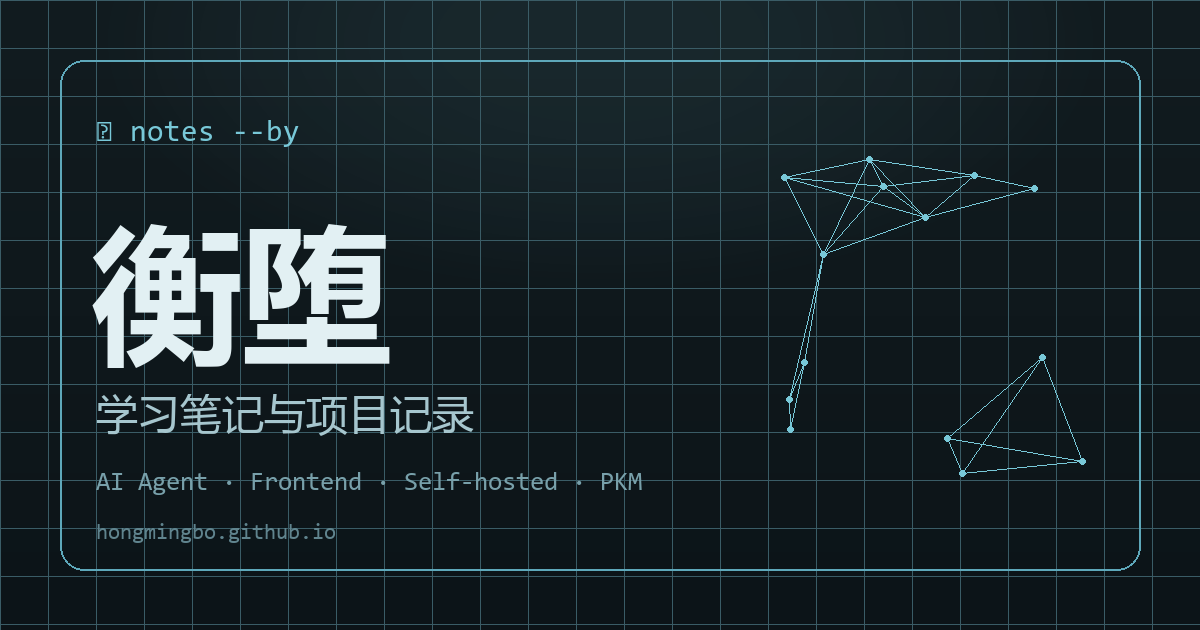
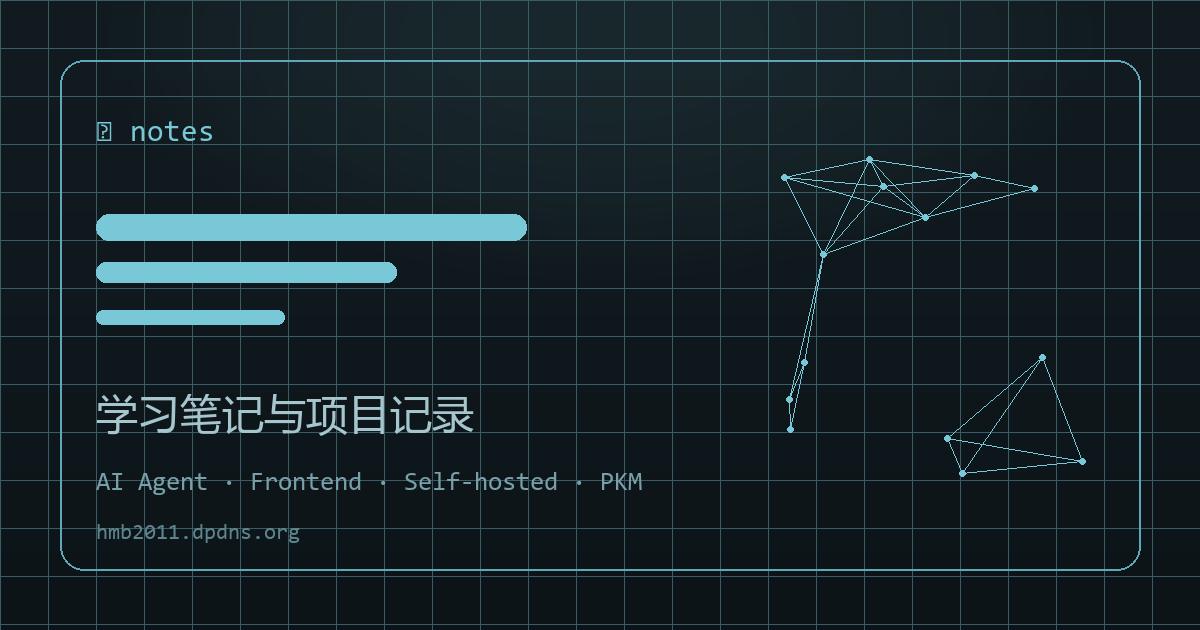
chore(og-cover): remove display name from share image, point url to new domain
- drop the 150px name in the title area; replaced with 3 weight-decreasing neon bars (pure visual placeholder)
- footer url hongmingbo.github.io -> hmb2011.dpdns.org
- prompt line 'notes --by' -> 'notes' (the 'by' implied an author name)
- numpy stdev self-check is now optional so the script runs on a bare Python
- regenerate public/og-cover.png; dist scan shows 0 occurrences of the hidden name

Changed region(s): [[0.0617, 0.3317, 0.4625, 0.6032], [0.0925, 0.8143, 0.2775, 0.8746], [0.2158, 0.181, 0.2467, 0.2413]]

diff --git a/scripts/gen-og-cover.py b/scripts/gen-og-cover.py
@@ -73,11 +73,18 @@ f_sub = font(yahei, 42)
 f_meta = font(mono_path, 26)
 f_url = font(mono_path, 22)
 
-d.text((96, 118), "\u276f notes --by", font=f_prompt, fill=NEON)
-d.text((92, 190), "衡堕", font=f_title, fill=TITLE)
+d.text((96, 118), "\u276f notes", font=f_prompt, fill=NEON)
+# 站点显示名暂隐藏（原为「衡堕」）。恢复时把下面一行换成 d.text((92, 190), "衡堕", ...) 并删除占位图形。
 d.text((96, 384), "学习笔记与项目记录", font=f_sub, fill=SUB)
 d.text((96, 470), "AI Agent · Frontend · Self-hosted · PKM", font=f_meta, fill=META)
-d.text((96, 522), "hongmingbo.github.io", font=f_url, fill=URL)
+d.text((96, 522), "hmb2011.dpdns.org", font=f_url, fill=URL)
+
+# 站点显示名隐藏期间的标题区占位：三根粗细递减的横向光条（纯视觉，无文字）
+bar_x, bar_y = 96, 214
+for i, (bw, bh, alpha) in enumerate([(430, 26, 235), (300, 20, 170), (188, 14, 110)]):
+    by = bar_y + i * 48
+    d.rounded_rectangle([bar_x, by, bar_x + bw, by + bh], radius=bh // 2,
+                        fill=(NEON[0], NEON[1], NEON[2], alpha))
 
 # 右侧小节点装饰
 import random
@@ -95,7 +102,10 @@ out = r"D:/tools/blog-redesign/Hongmingbo.github.io/public/og-cover.png"
 img.convert("RGB").save(out, "PNG", optimize=True)
 print("saved", out)
 
-# 自检：标题区方差
-import numpy as np
-arr = np.asarray(img.convert("L").crop((92, 190, 560, 360)), dtype=float)
-print("title stdev:", round(arr.std(), 2))
+# 自检：标题区方差（numpy 可选，缺失时跳过）
+try:
+    import numpy as np
+    arr = np.asarray(img.convert("L").crop((96, 200, 560, 350)), dtype=float)
+    print("title stdev:", round(arr.std(), 2))
+except ImportError:
+    print("skip stdev check (numpy not installed)")
